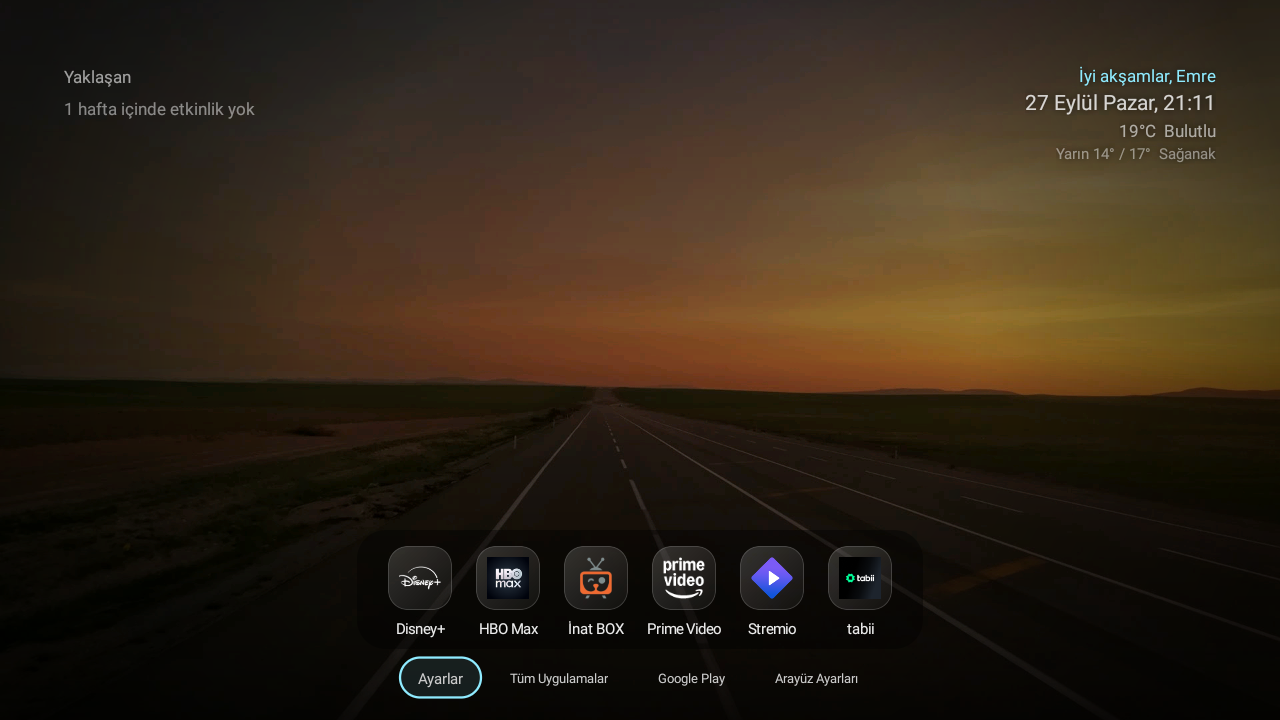
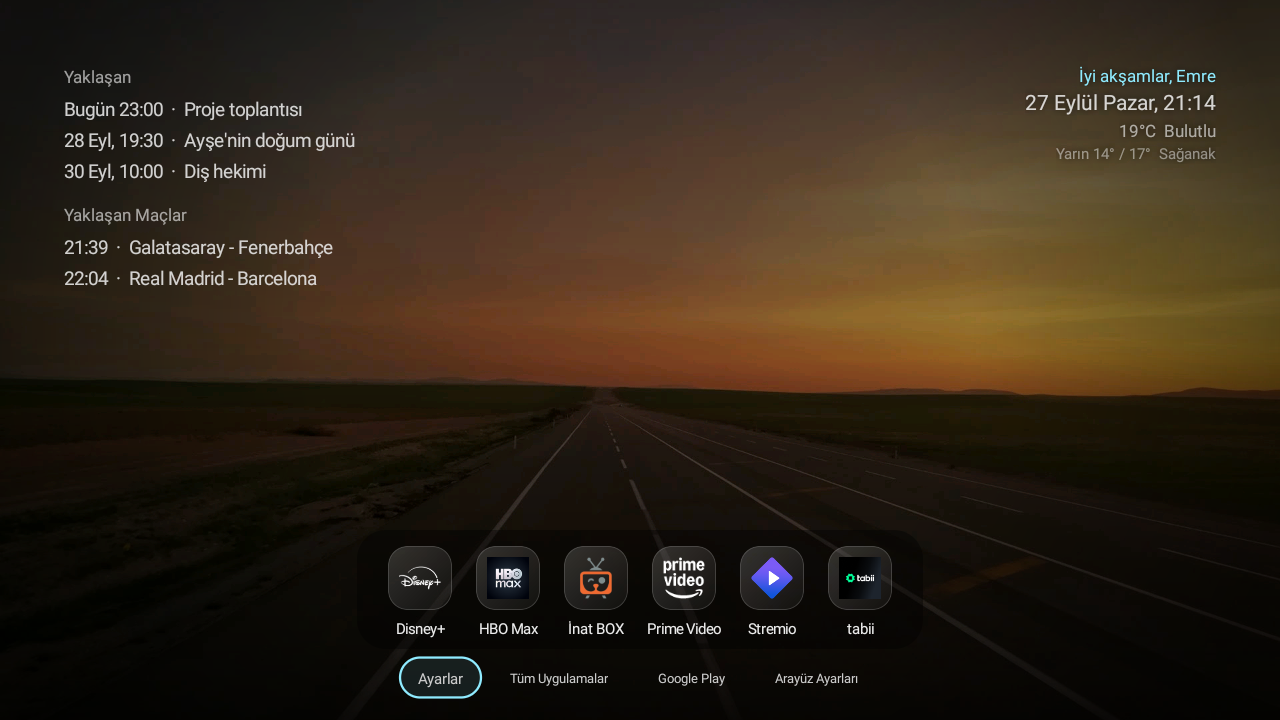
Show sample calendar and match data in the README screenshots
Adds a debug-build-only demo mode (am start ... --ez demo true) that fills
the calendar and match panels with sample data; release builds ignore it.

diff --git a/app/src/main/java/io/github/mehmetemreak/stickhome/HomeActivity.java b/app/src/main/java/io/github/mehmetemreak/stickhome/HomeActivity.java
@@ -47,6 +47,7 @@ public class HomeActivity extends Activity {
 
     private int moveModeIndex = -1;
     private int lastFocusedIndex = 0;
+    private boolean demoMode = false;
     private int upcomingGeneration = 0;
     private List<DockStore.Entry> preMovOrder = null;
 
@@ -82,6 +83,7 @@ public class HomeActivity extends Activity {
         weatherTomorrow = findViewById(R.id.weather_tomorrow);
         revealHint = findViewById(R.id.reveal_hint);
 
+        demoMode = DemoData.isRequested(this, getIntent());
         entries.addAll(dockStore.seedIfEmpty(this));
         renderShelf(-1);
         renderChips();
@@ -98,6 +100,13 @@ public class HomeActivity extends Activity {
     }
 
     @Override
+    protected void onNewIntent(Intent intent) {
+        super.onNewIntent(intent);
+        setIntent(intent);
+        demoMode = DemoData.isRequested(this, intent);
+    }
+
+    @Override
     public void onRequestPermissionsResult(int requestCode, String[] permissions, int[] grantResults) {
         super.onRequestPermissionsResult(requestCode, permissions, grantResults);
         if (requestCode == REQ_CALENDAR) {
@@ -110,7 +119,7 @@ public class HomeActivity extends Activity {
         upcomingGeneration++;
         upcomingPanel.removeAllViews();
 
-        if (!CalendarWidget.hasPermission(this)) {
+        if (!demoMode && !CalendarWidget.hasPermission(this)) {
             TextView header = new TextView(this);
             header.setText("Takvim izni verilmedi");
             header.setTextColor(0x99FFFFFF);
@@ -126,7 +135,9 @@ public class HomeActivity extends Activity {
             case SettingsStore.CALENDAR_WINDOW_1M: windowDays = 30; windowLabel = "1 ay"; break;
             default: windowDays = 7; windowLabel = "1 hafta"; break;
         }
-        List<CalendarWidget.UpcomingEvent> events = CalendarWidget.loadUpcoming(this, 4, windowDays);
+        List<CalendarWidget.UpcomingEvent> events = demoMode
+                ? DemoData.events()
+                : CalendarWidget.loadUpcoming(this, 4, windowDays);
 
         TextView header = new TextView(this);
         header.setText("Yaklaşan");
@@ -156,32 +167,17 @@ public class HomeActivity extends Activity {
     }
 
     private void renderFootball() {
+        if (demoMode) {
+            showMatches(DemoData.matches());
+            return;
+        }
         int generation = upcomingGeneration;
         FootballWidget.fetch(this, new FootballWidget.Callback() {
             @Override
             public void onResult(List<FootballWidget.Match> matches) {
                 // A newer renderUpcoming() already rebuilt the panel; its own fetch will fill it.
-                if (generation != upcomingGeneration || matches.isEmpty()) return;
-
-                TextView header = new TextView(HomeActivity.this);
-                header.setText("Yaklaşan Maçlar");
-                header.setTextColor(0x99FFFFFF);
-                header.setTextSize(13);
-                header.setPadding(0, dp(10), 0, dp(6));
-                upcomingPanel.addView(header);
-
-                boolean multiDay = settingsStore.getMatchWindow() != SettingsStore.MATCH_WINDOW_1H;
-                SimpleDateFormat timeFmt = new SimpleDateFormat(
-                        multiDay ? "d MMM HH:mm" : "HH:mm", new Locale("tr", "TR"));
-                for (FootballWidget.Match m : matches) {
-                    TextView row = new TextView(HomeActivity.this);
-                    row.setText(timeFmt.format(new Date(m.startMillis)) + "  ·  " + m.title);
-                    row.setTextColor(0xDDECECEC);
-                    row.setTextSize(14);
-                    row.setPadding(0, 0, 0, dp(4));
-                    row.setMaxLines(1);
-                    upcomingPanel.addView(row);
-                }
+                if (generation != upcomingGeneration) return;
+                showMatches(matches);
             }
 
             @Override
@@ -189,6 +185,30 @@ public class HomeActivity extends Activity {
                 // Silently skip - no network or API unavailable.
             }
         });
+    }
+
+    private void showMatches(List<FootballWidget.Match> matches) {
+        if (matches.isEmpty()) return;
+
+        TextView header = new TextView(this);
+        header.setText("Yaklaşan Maçlar");
+        header.setTextColor(0x99FFFFFF);
+        header.setTextSize(13);
+        header.setPadding(0, dp(10), 0, dp(6));
+        upcomingPanel.addView(header);
+
+        boolean multiDay = settingsStore.getMatchWindow() != SettingsStore.MATCH_WINDOW_1H;
+        SimpleDateFormat timeFmt = new SimpleDateFormat(
+                multiDay ? "d MMM HH:mm" : "HH:mm", new Locale("tr", "TR"));
+        for (FootballWidget.Match m : matches) {
+            TextView row = new TextView(this);
+            row.setText(timeFmt.format(new Date(m.startMillis)) + "  ·  " + m.title);
+            row.setTextColor(0xDDECECEC);
+            row.setTextSize(14);
+            row.setPadding(0, 0, 0, dp(4));
+            row.setMaxLines(1);
+            upcomingPanel.addView(row);
+        }
     }
 
     private void renderChips() {

diff --git a/app/src/main/java/io/github/mehmetemreak/stickhome/DemoData.java b/app/src/main/java/io/github/mehmetemreak/stickhome/DemoData.java
@@ -1,0 +1,54 @@
+package io.github.mehmetemreak.stickhome;
+
+import android.content.Context;
+import android.content.Intent;
+import android.content.pm.ApplicationInfo;
+
+import java.util.Arrays;
+import java.util.Calendar;
+import java.util.List;
+
+/** Sample calendar/match data for README screenshots. Debug builds only:
+ *  adb shell am start -n io.github.mehmetemreak.stickhome/.HomeActivity --ez demo true */
+final class DemoData {
+
+    private DemoData() {}
+
+    static boolean isRequested(Context context, Intent intent) {
+        boolean debuggable = (context.getApplicationInfo().flags & ApplicationInfo.FLAG_DEBUGGABLE) != 0;
+        return debuggable && intent != null && intent.getBooleanExtra("demo", false);
+    }
+
+    static List<CalendarWidget.UpcomingEvent> events() {
+        return Arrays.asList(
+                new CalendarWidget.UpcomingEvent("Proje toplantısı", at(0, 2)),
+                new CalendarWidget.UpcomingEvent("Ayşe'nin doğum günü", atClock(1, 19, 30)),
+                new CalendarWidget.UpcomingEvent("Diş hekimi", atClock(3, 10, 0)));
+    }
+
+    static List<FootballWidget.Match> matches() {
+        return Arrays.asList(
+                new FootballWidget.Match("Galatasaray - Fenerbahçe", at(0, 0) + 25 * 60_000L),
+                new FootballWidget.Match("Real Madrid - Barcelona", at(0, 0) + 50 * 60_000L));
+    }
+
+    private static long at(int days, int hours) {
+        Calendar c = Calendar.getInstance();
+        c.add(Calendar.DAY_OF_YEAR, days);
+        c.add(Calendar.HOUR_OF_DAY, hours);
+        c.set(Calendar.SECOND, 0);
+        c.set(Calendar.MILLISECOND, 0);
+        c.set(Calendar.MINUTE, hours == 0 ? c.get(Calendar.MINUTE) : 0);
+        return c.getTimeInMillis();
+    }
+
+    private static long atClock(int days, int hour, int minute) {
+        Calendar c = Calendar.getInstance();
+        c.add(Calendar.DAY_OF_YEAR, days);
+        c.set(Calendar.HOUR_OF_DAY, hour);
+        c.set(Calendar.MINUTE, minute);
+        c.set(Calendar.SECOND, 0);
+        c.set(Calendar.MILLISECOND, 0);
+        return c.getTimeInMillis();
+    }
+}

diff --git a/README.md b/README.md
@@ -43,6 +43,8 @@ Claude'a verdiğin talimatların tamamı [CLAUDE-GUIDE.md](CLAUDE-GUIDE.md) dosy
 |---|
 | ![Arayüz Ayarları ekranı](docs/screenshots/settings.png) |
 
+*Görsellerdeki takvim etkinlikleri ve maçlar örnek verilerdir.*
+
 ## Uyumluluk
 
 Xiaomi Mi TV Stick 1080p (MiTV-AESP0), Android 10 üzerinde test edildi. Android 10+ çalıştıran başka Android TV cihazlarında da açılması beklenir. Ama kumanda tuşu kodları (Netflix `193`, Prime Video `194`, Tüm Uygulamalar `284`) Xiaomi kumandasına göre; başka kumandalarda bu tuşlar sadece yönlendirilmez, başka bir şey bozulmaz.
